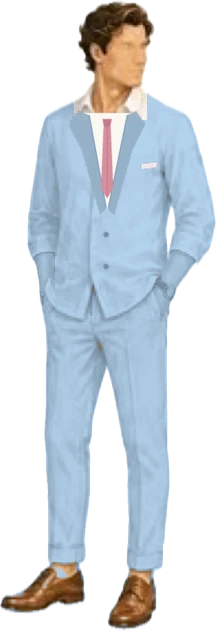
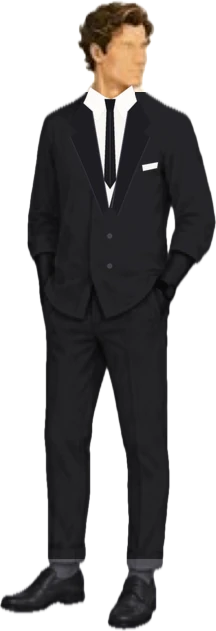
Vestimenta: invitado de negro, caballeros traje formal, damas con paleta completa al tocar

diff --git a/index.html b/index.html
@@ -2,7 +2,7 @@
 <html lang="es">
 <head>
 <meta charset="utf-8">
-<script>(function(){var V="1791526159";try{fetch("version.txt?t="+Date.now(),{cache:"no-store"}).then(function(r){return r.ok?r.text():""}).then(function(t){t=t.trim();if(/^\d+$/.test(t)&&t>V&&new URLSearchParams(location.search).get("v")!==t)location.replace(location.pathname+"?v="+t+location.hash)}).catch(function(){})}catch(e){}})();</script>
+<script>(function(){var V="1791526569";try{fetch("version.txt?t="+Date.now(),{cache:"no-store"}).then(function(r){return r.ok?r.text():""}).then(function(t){t=t.trim();if(/^\d+$/.test(t)&&t>V&&new URLSearchParams(location.search).get("v")!==t)location.replace(location.pathname+"?v="+t+location.hash)}).catch(function(){})}catch(e){}})();</script>
 <meta name="viewport" content="width=device-width,initial-scale=1,viewport-fit=cover">
 <meta name="robots" content="noindex,nofollow">
 <meta name="theme-color" content="#6c1d2d">
@@ -439,6 +439,18 @@ section[id]{scroll-margin-top:62px}
 .c-rama-tr{top:0;right:0;width:124px;transform:scaleX(-1);-webkit-mask-image:linear-gradient(transparent,#000 16px);mask-image:linear-gradient(transparent,#000 16px)}
 .countdown .c-rama-bl{bottom:-46px}
 .foot-leaf{position:absolute;right:0;bottom:23px;width:66px;height:auto;transform:scaleX(-1);opacity:.75;pointer-events:none}
+.dc-guide{margin-top:30px;width:100%;display:flex;flex-direction:column;align-items:center;gap:10px}
+.dc-g{display:flex;flex-direction:column;align-items:center;gap:6px}
+.dc-g-t{font:400 40px/1 "Allura",var(--script);color:var(--accent)}
+.dc-g-d{font:600 13px/1.3 var(--serif);letter-spacing:.26em;text-transform:uppercase;color:#4e1a26}
+.dc-guide .dc-orn{width:46%;margin:6px 0 2px}
+.dc-pal-btn{display:inline-flex;align-items:center;gap:8px;margin-top:4px;padding:11px 16px;border:1px solid var(--gold);border-radius:999px;background:#fbf7f1;color:var(--accent);font:600 12px/1.2 var(--serif);letter-spacing:.12em;text-transform:uppercase;cursor:pointer;box-shadow:0 8px 14px -10px rgba(60,20,30,.45)}
+.dc-pal-btn svg{width:18px;height:18px;flex:none}
+.dc-pal-btn .chev-i{width:15px;height:15px;transition:transform .3s}
+.dc-pal-btn[aria-expanded="true"] .chev-i{transform:rotate(180deg)}
+.dc-pal-btn:focus-visible{outline:2px solid var(--accent);outline-offset:3px}
+.dc-pal{width:100%}
+.dc-pal .dc-swatches{grid-template-columns:repeat(5,1fr);row-gap:14px}
 </style>
 
 <script>document.documentElement.classList.add("env-closed");if(matchMedia("(prefers-reduced-motion: no-preference)").matches)document.documentElement.classList.add("js-motion")</script>
@@ -651,7 +663,7 @@ section[id]{scroll-margin-top:62px}
       <div class="dc-col">
         <h3 class="dc-h">Hombres</h3>
         <span class="dc-orn" aria-hidden="true"><svg viewBox="0 0 24 24" fill="none" stroke="currentColor" stroke-width="1.5" aria-hidden="true"><path d="M12 19.5s-6.8-4.3-6.8-9.6a3.9 3.9 0 0 1 6.8-2.5 3.9 3.9 0 0 1 6.8 2.5c0 5.3-6.8 9.6-6.8 9.6z"/></svg></span>
-        <img class="dc-fig" src="invitado.webp?v=191f1cad" alt="Invitado con traje formal celeste pastel, camisa blanca y corbata rosa" width="216" height="631" loading="lazy" decoding="async">
+        <img class="dc-fig" src="invitado.webp?v=d18e5099" alt="Invitado con traje formal negro, camisa blanca y corbata negra" width="216" height="631" loading="lazy" decoding="async">
       </div>
       <span class="dc-vline" aria-hidden="true"><svg viewBox="0 0 24 24" fill="none" stroke="currentColor" stroke-width="1.5" aria-hidden="true"><path d="M12 19.5s-6.8-4.3-6.8-9.6a3.9 3.9 0 0 1 6.8-2.5 3.9 3.9 0 0 1 6.8 2.5c0 5.3-6.8 9.6-6.8 9.6z"/></svg></span>
       <div class="dc-col">
@@ -660,8 +672,17 @@ section[id]{scroll-margin-top:62px}
         <img class="dc-fig" src="invitada.webp?v=9271afb3" alt="Invitada con vestido largo formal rosa pastel" width="243" height="620" loading="lazy" decoding="async">
       </div>
     </div>
-    <p class="dc-sub reveal">Nos encantará verte en tonos pastel como:</p>
-    <ul class="dc-swatches reveal"><li><svg class="dc-blob" viewBox="0 0 48 48" aria-hidden="true"><g filter="url(#dc-wc)"><path d="M38.0 24.0C38.0 27.9 39.8 32.8 37.9 35.7C36.1 38.6 30.8 40.8 27.0 41.2C23.3 41.7 18.6 40.5 15.6 38.5C12.6 36.6 9.9 32.8 8.9 29.5C7.9 26.2 8.2 21.8 9.5 18.7C10.8 15.7 13.8 12.7 16.6 11.3C19.5 9.8 22.9 10.0 26.4 10.2C30.0 10.4 36.0 10.0 37.9 12.3C39.9 14.6 38.0 20.1 38.0 24.0Z" fill="#c8b4e3"/><path d="M38.0 24.0C38.0 27.9 39.8 32.8 37.9 35.7C36.1 38.6 30.8 40.8 27.0 41.2C23.3 41.7 18.6 40.5 15.6 38.5C12.6 36.6 9.9 32.8 8.9 29.5C7.9 26.2 8.2 21.8 9.5 18.7C10.8 15.7 13.8 12.7 16.6 11.3C19.5 9.8 22.9 10.0 26.4 10.2C30.0 10.4 36.0 10.0 37.9 12.3C39.9 14.6 38.0 20.1 38.0 24.0Z" fill="#fff" opacity=".18" transform="translate(5 4) scale(.62)"/></g></svg><span>Lavanda</span></li><li><svg class="dc-blob" viewBox="0 0 48 48" aria-hidden="true"><g filter="url(#dc-wc)"><path d="M38.0 24.0C38.0 27.9 39.8 32.8 37.9 35.7C36.1 38.6 30.8 40.8 27.0 41.2C23.3 41.7 18.6 40.5 15.6 38.5C12.6 36.6 9.9 32.8 8.9 29.5C7.9 26.2 8.2 21.8 9.5 18.7C10.8 15.7 13.8 12.7 16.6 11.3C19.5 9.8 22.9 10.0 26.4 10.2C30.0 10.4 36.0 10.0 37.9 12.3C39.9 14.6 38.0 20.1 38.0 24.0Z" fill="#f1c0c9"/><path d="M38.0 24.0C38.0 27.9 39.8 32.8 37.9 35.7C36.1 38.6 30.8 40.8 27.0 41.2C23.3 41.7 18.6 40.5 15.6 38.5C12.6 36.6 9.9 32.8 8.9 29.5C7.9 26.2 8.2 21.8 9.5 18.7C10.8 15.7 13.8 12.7 16.6 11.3C19.5 9.8 22.9 10.0 26.4 10.2C30.0 10.4 36.0 10.0 37.9 12.3C39.9 14.6 38.0 20.1 38.0 24.0Z" fill="#fff" opacity=".18" transform="translate(5 4) scale(.62)"/></g></svg><span>Rosa palo</span></li><li><svg class="dc-blob" viewBox="0 0 48 48" aria-hidden="true"><g filter="url(#dc-wc)"><path d="M38.0 24.0C38.0 27.9 39.8 32.8 37.9 35.7C36.1 38.6 30.8 40.8 27.0 41.2C23.3 41.7 18.6 40.5 15.6 38.5C12.6 36.6 9.9 32.8 8.9 29.5C7.9 26.2 8.2 21.8 9.5 18.7C10.8 15.7 13.8 12.7 16.6 11.3C19.5 9.8 22.9 10.0 26.4 10.2C30.0 10.4 36.0 10.0 37.9 12.3C39.9 14.6 38.0 20.1 38.0 24.0Z" fill="#b8d8ef"/><path d="M38.0 24.0C38.0 27.9 39.8 32.8 37.9 35.7C36.1 38.6 30.8 40.8 27.0 41.2C23.3 41.7 18.6 40.5 15.6 38.5C12.6 36.6 9.9 32.8 8.9 29.5C7.9 26.2 8.2 21.8 9.5 18.7C10.8 15.7 13.8 12.7 16.6 11.3C19.5 9.8 22.9 10.0 26.4 10.2C30.0 10.4 36.0 10.0 37.9 12.3C39.9 14.6 38.0 20.1 38.0 24.0Z" fill="#fff" opacity=".18" transform="translate(5 4) scale(.62)"/></g></svg><span>Celeste</span></li><li><svg class="dc-blob" viewBox="0 0 48 48" aria-hidden="true"><g filter="url(#dc-wc)"><path d="M38.0 24.0C38.0 27.9 39.8 32.8 37.9 35.7C36.1 38.6 30.8 40.8 27.0 41.2C23.3 41.7 18.6 40.5 15.6 38.5C12.6 36.6 9.9 32.8 8.9 29.5C7.9 26.2 8.2 21.8 9.5 18.7C10.8 15.7 13.8 12.7 16.6 11.3C19.5 9.8 22.9 10.0 26.4 10.2C30.0 10.4 36.0 10.0 37.9 12.3C39.9 14.6 38.0 20.1 38.0 24.0Z" fill="#bde3cd"/><path d="M38.0 24.0C38.0 27.9 39.8 32.8 37.9 35.7C36.1 38.6 30.8 40.8 27.0 41.2C23.3 41.7 18.6 40.5 15.6 38.5C12.6 36.6 9.9 32.8 8.9 29.5C7.9 26.2 8.2 21.8 9.5 18.7C10.8 15.7 13.8 12.7 16.6 11.3C19.5 9.8 22.9 10.0 26.4 10.2C30.0 10.4 36.0 10.0 37.9 12.3C39.9 14.6 38.0 20.1 38.0 24.0Z" fill="#fff" opacity=".18" transform="translate(5 4) scale(.62)"/></g></svg><span>Verde menta</span></li><li><svg class="dc-blob" viewBox="0 0 48 48" aria-hidden="true"><g filter="url(#dc-wc)"><path d="M38.0 24.0C38.0 27.9 39.8 32.8 37.9 35.7C36.1 38.6 30.8 40.8 27.0 41.2C23.3 41.7 18.6 40.5 15.6 38.5C12.6 36.6 9.9 32.8 8.9 29.5C7.9 26.2 8.2 21.8 9.5 18.7C10.8 15.7 13.8 12.7 16.6 11.3C19.5 9.8 22.9 10.0 26.4 10.2C30.0 10.4 36.0 10.0 37.9 12.3C39.9 14.6 38.0 20.1 38.0 24.0Z" fill="#f6c7a6"/><path d="M38.0 24.0C38.0 27.9 39.8 32.8 37.9 35.7C36.1 38.6 30.8 40.8 27.0 41.2C23.3 41.7 18.6 40.5 15.6 38.5C12.6 36.6 9.9 32.8 8.9 29.5C7.9 26.2 8.2 21.8 9.5 18.7C10.8 15.7 13.8 12.7 16.6 11.3C19.5 9.8 22.9 10.0 26.4 10.2C30.0 10.4 36.0 10.0 37.9 12.3C39.9 14.6 38.0 20.1 38.0 24.0Z" fill="#fff" opacity=".18" transform="translate(5 4) scale(.62)"/></g></svg><span>Durazno</span></li><li><svg class="dc-blob" viewBox="0 0 48 48" aria-hidden="true"><g filter="url(#dc-wc)"><path d="M38.0 24.0C38.0 27.9 39.8 32.8 37.9 35.7C36.1 38.6 30.8 40.8 27.0 41.2C23.3 41.7 18.6 40.5 15.6 38.5C12.6 36.6 9.9 32.8 8.9 29.5C7.9 26.2 8.2 21.8 9.5 18.7C10.8 15.7 13.8 12.7 16.6 11.3C19.5 9.8 22.9 10.0 26.4 10.2C30.0 10.4 36.0 10.0 37.9 12.3C39.9 14.6 38.0 20.1 38.0 24.0Z" fill="#f4e3a0"/><path d="M38.0 24.0C38.0 27.9 39.8 32.8 37.9 35.7C36.1 38.6 30.8 40.8 27.0 41.2C23.3 41.7 18.6 40.5 15.6 38.5C12.6 36.6 9.9 32.8 8.9 29.5C7.9 26.2 8.2 21.8 9.5 18.7C10.8 15.7 13.8 12.7 16.6 11.3C19.5 9.8 22.9 10.0 26.4 10.2C30.0 10.4 36.0 10.0 37.9 12.3C39.9 14.6 38.0 20.1 38.0 24.0Z" fill="#fff" opacity=".18" transform="translate(5 4) scale(.62)"/></g></svg><span>Amarillo pastel</span></li></ul>
+    <div class="dc-guide reveal">
+      <div class="dc-g"><span class="dc-g-t">Caballeros</span><span class="dc-g-d">Traje formal</span></div>
+      <span class="dc-orn" aria-hidden="true"><svg viewBox="0 0 24 24" fill="none" stroke="currentColor" stroke-width="1.5" aria-hidden="true"><path d="M12 19.5s-6.8-4.3-6.8-9.6a3.9 3.9 0 0 1 6.8-2.5 3.9 3.9 0 0 1 6.8 2.5c0 5.3-6.8 9.6-6.8 9.6z"/></svg></span>
+      <div class="dc-g"><span class="dc-g-t">Damas</span>
+        <button class="dc-pal-btn" id="pal-btn" type="button" aria-expanded="false" aria-controls="dc-pal"><svg viewBox="0 0 24 24" fill="none" stroke="currentColor" stroke-width="1.4" stroke-linecap="round" aria-hidden="true"><path d="M12 3.5a8.5 8.5 0 1 0 0 17c1.2 0 1.8-.8 1.8-1.7 0-.5-.2-.8-.4-1.1-.3-.3-.4-.6-.4-1 0-.9.7-1.6 1.6-1.6h1.9a4 4 0 0 0 4-4C20.5 6.9 16.7 3.5 12 3.5z"/><circle cx="7.6" cy="11" r="1.1"/><circle cx="10.5" cy="7.4" r="1.1"/><circle cx="15" cy="7.6" r="1.1"/></svg><span id="pal-lbl">Pulsa para ver la paleta de colores</span><svg class="chev-i" viewBox="0 0 24 24" fill="none" stroke="currentColor" stroke-width="1.6" aria-hidden="true"><path d="M6 9l6 6 6-6"/></svg></button>
+      </div>
+    </div>
+    <div class="dc-pal" id="dc-pal" hidden>
+      <p class="dc-sub">Paleta de colores (inspiración)</p>
+      <ul class="dc-swatches"><li><svg class="dc-blob" viewBox="0 0 48 48" aria-hidden="true"><g filter="url(#dc-wc)"><path d="M38.0 24.0C38.0 27.9 39.8 32.8 37.9 35.7C36.1 38.6 30.8 40.8 27.0 41.2C23.3 41.7 18.6 40.5 15.6 38.5C12.6 36.6 9.9 32.8 8.9 29.5C7.9 26.2 8.2 21.8 9.5 18.7C10.8 15.7 13.8 12.7 16.6 11.3C19.5 9.8 22.9 10.0 26.4 10.2C30.0 10.4 36.0 10.0 37.9 12.3C39.9 14.6 38.0 20.1 38.0 24.0Z" fill="#fdbfd4"/><path d="M38.0 24.0C38.0 27.9 39.8 32.8 37.9 35.7C36.1 38.6 30.8 40.8 27.0 41.2C23.3 41.7 18.6 40.5 15.6 38.5C12.6 36.6 9.9 32.8 8.9 29.5C7.9 26.2 8.2 21.8 9.5 18.7C10.8 15.7 13.8 12.7 16.6 11.3C19.5 9.8 22.9 10.0 26.4 10.2C30.0 10.4 36.0 10.0 37.9 12.3C39.9 14.6 38.0 20.1 38.0 24.0Z" fill="#fff" opacity=".18" transform="translate(5 4) scale(.62)"/></g></svg><span>Rosa suave</span></li><li><svg class="dc-blob" viewBox="0 0 48 48" aria-hidden="true"><g filter="url(#dc-wc)"><path d="M38.0 24.0C38.0 27.9 39.8 32.8 37.9 35.7C36.1 38.6 30.8 40.8 27.0 41.2C23.3 41.7 18.6 40.5 15.6 38.5C12.6 36.6 9.9 32.8 8.9 29.5C7.9 26.2 8.2 21.8 9.5 18.7C10.8 15.7 13.8 12.7 16.6 11.3C19.5 9.8 22.9 10.0 26.4 10.2C30.0 10.4 36.0 10.0 37.9 12.3C39.9 14.6 38.0 20.1 38.0 24.0Z" fill="#f8bbb9"/><path d="M38.0 24.0C38.0 27.9 39.8 32.8 37.9 35.7C36.1 38.6 30.8 40.8 27.0 41.2C23.3 41.7 18.6 40.5 15.6 38.5C12.6 36.6 9.9 32.8 8.9 29.5C7.9 26.2 8.2 21.8 9.5 18.7C10.8 15.7 13.8 12.7 16.6 11.3C19.5 9.8 22.9 10.0 26.4 10.2C30.0 10.4 36.0 10.0 37.9 12.3C39.9 14.6 38.0 20.1 38.0 24.0Z" fill="#fff" opacity=".18" transform="translate(5 4) scale(.62)"/></g></svg><span>Rosa palo</span></li><li><svg class="dc-blob" viewBox="0 0 48 48" aria-hidden="true"><g filter="url(#dc-wc)"><path d="M38.0 24.0C38.0 27.9 39.8 32.8 37.9 35.7C36.1 38.6 30.8 40.8 27.0 41.2C23.3 41.7 18.6 40.5 15.6 38.5C12.6 36.6 9.9 32.8 8.9 29.5C7.9 26.2 8.2 21.8 9.5 18.7C10.8 15.7 13.8 12.7 16.6 11.3C19.5 9.8 22.9 10.0 26.4 10.2C30.0 10.4 36.0 10.0 37.9 12.3C39.9 14.6 38.0 20.1 38.0 24.0Z" fill="#fec1a1"/><path d="M38.0 24.0C38.0 27.9 39.8 32.8 37.9 35.7C36.1 38.6 30.8 40.8 27.0 41.2C23.3 41.7 18.6 40.5 15.6 38.5C12.6 36.6 9.9 32.8 8.9 29.5C7.9 26.2 8.2 21.8 9.5 18.7C10.8 15.7 13.8 12.7 16.6 11.3C19.5 9.8 22.9 10.0 26.4 10.2C30.0 10.4 36.0 10.0 37.9 12.3C39.9 14.6 38.0 20.1 38.0 24.0Z" fill="#fff" opacity=".18" transform="translate(5 4) scale(.62)"/></g></svg><span>Durazno claro</span></li><li><svg class="dc-blob" viewBox="0 0 48 48" aria-hidden="true"><g filter="url(#dc-wc)"><path d="M38.0 24.0C38.0 27.9 39.8 32.8 37.9 35.7C36.1 38.6 30.8 40.8 27.0 41.2C23.3 41.7 18.6 40.5 15.6 38.5C12.6 36.6 9.9 32.8 8.9 29.5C7.9 26.2 8.2 21.8 9.5 18.7C10.8 15.7 13.8 12.7 16.6 11.3C19.5 9.8 22.9 10.0 26.4 10.2C30.0 10.4 36.0 10.0 37.9 12.3C39.9 14.6 38.0 20.1 38.0 24.0Z" fill="#f3e0ad"/><path d="M38.0 24.0C38.0 27.9 39.8 32.8 37.9 35.7C36.1 38.6 30.8 40.8 27.0 41.2C23.3 41.7 18.6 40.5 15.6 38.5C12.6 36.6 9.9 32.8 8.9 29.5C7.9 26.2 8.2 21.8 9.5 18.7C10.8 15.7 13.8 12.7 16.6 11.3C19.5 9.8 22.9 10.0 26.4 10.2C30.0 10.4 36.0 10.0 37.9 12.3C39.9 14.6 38.0 20.1 38.0 24.0Z" fill="#fff" opacity=".18" transform="translate(5 4) scale(.62)"/></g></svg><span>Crema suave</span></li><li><svg class="dc-blob" viewBox="0 0 48 48" aria-hidden="true"><g filter="url(#dc-wc)"><path d="M38.0 24.0C38.0 27.9 39.8 32.8 37.9 35.7C36.1 38.6 30.8 40.8 27.0 41.2C23.3 41.7 18.6 40.5 15.6 38.5C12.6 36.6 9.9 32.8 8.9 29.5C7.9 26.2 8.2 21.8 9.5 18.7C10.8 15.7 13.8 12.7 16.6 11.3C19.5 9.8 22.9 10.0 26.4 10.2C30.0 10.4 36.0 10.0 37.9 12.3C39.9 14.6 38.0 20.1 38.0 24.0Z" fill="#fbf6b5"/><path d="M38.0 24.0C38.0 27.9 39.8 32.8 37.9 35.7C36.1 38.6 30.8 40.8 27.0 41.2C23.3 41.7 18.6 40.5 15.6 38.5C12.6 36.6 9.9 32.8 8.9 29.5C7.9 26.2 8.2 21.8 9.5 18.7C10.8 15.7 13.8 12.7 16.6 11.3C19.5 9.8 22.9 10.0 26.4 10.2C30.0 10.4 36.0 10.0 37.9 12.3C39.9 14.6 38.0 20.1 38.0 24.0Z" fill="#fff" opacity=".18" transform="translate(5 4) scale(.62)"/></g></svg><span>Amarillo crema</span></li><li><svg class="dc-blob" viewBox="0 0 48 48" aria-hidden="true"><g filter="url(#dc-wc)"><path d="M38.0 24.0C38.0 27.9 39.8 32.8 37.9 35.7C36.1 38.6 30.8 40.8 27.0 41.2C23.3 41.7 18.6 40.5 15.6 38.5C12.6 36.6 9.9 32.8 8.9 29.5C7.9 26.2 8.2 21.8 9.5 18.7C10.8 15.7 13.8 12.7 16.6 11.3C19.5 9.8 22.9 10.0 26.4 10.2C30.0 10.4 36.0 10.0 37.9 12.3C39.9 14.6 38.0 20.1 38.0 24.0Z" fill="#b7cea2"/><path d="M38.0 24.0C38.0 27.9 39.8 32.8 37.9 35.7C36.1 38.6 30.8 40.8 27.0 41.2C23.3 41.7 18.6 40.5 15.6 38.5C12.6 36.6 9.9 32.8 8.9 29.5C7.9 26.2 8.2 21.8 9.5 18.7C10.8 15.7 13.8 12.7 16.6 11.3C19.5 9.8 22.9 10.0 26.4 10.2C30.0 10.4 36.0 10.0 37.9 12.3C39.9 14.6 38.0 20.1 38.0 24.0Z" fill="#fff" opacity=".18" transform="translate(5 4) scale(.62)"/></g></svg><span>Verde pastel</span></li><li><svg class="dc-blob" viewBox="0 0 48 48" aria-hidden="true"><g filter="url(#dc-wc)"><path d="M38.0 24.0C38.0 27.9 39.8 32.8 37.9 35.7C36.1 38.6 30.8 40.8 27.0 41.2C23.3 41.7 18.6 40.5 15.6 38.5C12.6 36.6 9.9 32.8 8.9 29.5C7.9 26.2 8.2 21.8 9.5 18.7C10.8 15.7 13.8 12.7 16.6 11.3C19.5 9.8 22.9 10.0 26.4 10.2C30.0 10.4 36.0 10.0 37.9 12.3C39.9 14.6 38.0 20.1 38.0 24.0Z" fill="#c5dbc1"/><path d="M38.0 24.0C38.0 27.9 39.8 32.8 37.9 35.7C36.1 38.6 30.8 40.8 27.0 41.2C23.3 41.7 18.6 40.5 15.6 38.5C12.6 36.6 9.9 32.8 8.9 29.5C7.9 26.2 8.2 21.8 9.5 18.7C10.8 15.7 13.8 12.7 16.6 11.3C19.5 9.8 22.9 10.0 26.4 10.2C30.0 10.4 36.0 10.0 37.9 12.3C39.9 14.6 38.0 20.1 38.0 24.0Z" fill="#fff" opacity=".18" transform="translate(5 4) scale(.62)"/></g></svg><span>Menta pastel</span></li><li><svg class="dc-blob" viewBox="0 0 48 48" aria-hidden="true"><g filter="url(#dc-wc)"><path d="M38.0 24.0C38.0 27.9 39.8 32.8 37.9 35.7C36.1 38.6 30.8 40.8 27.0 41.2C23.3 41.7 18.6 40.5 15.6 38.5C12.6 36.6 9.9 32.8 8.9 29.5C7.9 26.2 8.2 21.8 9.5 18.7C10.8 15.7 13.8 12.7 16.6 11.3C19.5 9.8 22.9 10.0 26.4 10.2C30.0 10.4 36.0 10.0 37.9 12.3C39.9 14.6 38.0 20.1 38.0 24.0Z" fill="#f9a287"/><path d="M38.0 24.0C38.0 27.9 39.8 32.8 37.9 35.7C36.1 38.6 30.8 40.8 27.0 41.2C23.3 41.7 18.6 40.5 15.6 38.5C12.6 36.6 9.9 32.8 8.9 29.5C7.9 26.2 8.2 21.8 9.5 18.7C10.8 15.7 13.8 12.7 16.6 11.3C19.5 9.8 22.9 10.0 26.4 10.2C30.0 10.4 36.0 10.0 37.9 12.3C39.9 14.6 38.0 20.1 38.0 24.0Z" fill="#fff" opacity=".18" transform="translate(5 4) scale(.62)"/></g></svg><span>Naranja claro</span></li><li><svg class="dc-blob" viewBox="0 0 48 48" aria-hidden="true"><g filter="url(#dc-wc)"><path d="M38.0 24.0C38.0 27.9 39.8 32.8 37.9 35.7C36.1 38.6 30.8 40.8 27.0 41.2C23.3 41.7 18.6 40.5 15.6 38.5C12.6 36.6 9.9 32.8 8.9 29.5C7.9 26.2 8.2 21.8 9.5 18.7C10.8 15.7 13.8 12.7 16.6 11.3C19.5 9.8 22.9 10.0 26.4 10.2C30.0 10.4 36.0 10.0 37.9 12.3C39.9 14.6 38.0 20.1 38.0 24.0Z" fill="#feb079"/><path d="M38.0 24.0C38.0 27.9 39.8 32.8 37.9 35.7C36.1 38.6 30.8 40.8 27.0 41.2C23.3 41.7 18.6 40.5 15.6 38.5C12.6 36.6 9.9 32.8 8.9 29.5C7.9 26.2 8.2 21.8 9.5 18.7C10.8 15.7 13.8 12.7 16.6 11.3C19.5 9.8 22.9 10.0 26.4 10.2C30.0 10.4 36.0 10.0 37.9 12.3C39.9 14.6 38.0 20.1 38.0 24.0Z" fill="#fff" opacity=".18" transform="translate(5 4) scale(.62)"/></g></svg><span>Coral suave</span></li><li><svg class="dc-blob" viewBox="0 0 48 48" aria-hidden="true"><g filter="url(#dc-wc)"><path d="M38.0 24.0C38.0 27.9 39.8 32.8 37.9 35.7C36.1 38.6 30.8 40.8 27.0 41.2C23.3 41.7 18.6 40.5 15.6 38.5C12.6 36.6 9.9 32.8 8.9 29.5C7.9 26.2 8.2 21.8 9.5 18.7C10.8 15.7 13.8 12.7 16.6 11.3C19.5 9.8 22.9 10.0 26.4 10.2C30.0 10.4 36.0 10.0 37.9 12.3C39.9 14.6 38.0 20.1 38.0 24.0Z" fill="#f4ccaa"/><path d="M38.0 24.0C38.0 27.9 39.8 32.8 37.9 35.7C36.1 38.6 30.8 40.8 27.0 41.2C23.3 41.7 18.6 40.5 15.6 38.5C12.6 36.6 9.9 32.8 8.9 29.5C7.9 26.2 8.2 21.8 9.5 18.7C10.8 15.7 13.8 12.7 16.6 11.3C19.5 9.8 22.9 10.0 26.4 10.2C30.0 10.4 36.0 10.0 37.9 12.3C39.9 14.6 38.0 20.1 38.0 24.0Z" fill="#fff" opacity=".18" transform="translate(5 4) scale(.62)"/></g></svg><span>Melocotón claro</span></li><li><svg class="dc-blob" viewBox="0 0 48 48" aria-hidden="true"><g filter="url(#dc-wc)"><path d="M38.0 24.0C38.0 27.9 39.8 32.8 37.9 35.7C36.1 38.6 30.8 40.8 27.0 41.2C23.3 41.7 18.6 40.5 15.6 38.5C12.6 36.6 9.9 32.8 8.9 29.5C7.9 26.2 8.2 21.8 9.5 18.7C10.8 15.7 13.8 12.7 16.6 11.3C19.5 9.8 22.9 10.0 26.4 10.2C30.0 10.4 36.0 10.0 37.9 12.3C39.9 14.6 38.0 20.1 38.0 24.0Z" fill="#f0de87"/><path d="M38.0 24.0C38.0 27.9 39.8 32.8 37.9 35.7C36.1 38.6 30.8 40.8 27.0 41.2C23.3 41.7 18.6 40.5 15.6 38.5C12.6 36.6 9.9 32.8 8.9 29.5C7.9 26.2 8.2 21.8 9.5 18.7C10.8 15.7 13.8 12.7 16.6 11.3C19.5 9.8 22.9 10.0 26.4 10.2C30.0 10.4 36.0 10.0 37.9 12.3C39.9 14.6 38.0 20.1 38.0 24.0Z" fill="#fff" opacity=".18" transform="translate(5 4) scale(.62)"/></g></svg><span>Amarillo suave</span></li><li><svg class="dc-blob" viewBox="0 0 48 48" aria-hidden="true"><g filter="url(#dc-wc)"><path d="M38.0 24.0C38.0 27.9 39.8 32.8 37.9 35.7C36.1 38.6 30.8 40.8 27.0 41.2C23.3 41.7 18.6 40.5 15.6 38.5C12.6 36.6 9.9 32.8 8.9 29.5C7.9 26.2 8.2 21.8 9.5 18.7C10.8 15.7 13.8 12.7 16.6 11.3C19.5 9.8 22.9 10.0 26.4 10.2C30.0 10.4 36.0 10.0 37.9 12.3C39.9 14.6 38.0 20.1 38.0 24.0Z" fill="#c3d3a7"/><path d="M38.0 24.0C38.0 27.9 39.8 32.8 37.9 35.7C36.1 38.6 30.8 40.8 27.0 41.2C23.3 41.7 18.6 40.5 15.6 38.5C12.6 36.6 9.9 32.8 8.9 29.5C7.9 26.2 8.2 21.8 9.5 18.7C10.8 15.7 13.8 12.7 16.6 11.3C19.5 9.8 22.9 10.0 26.4 10.2C30.0 10.4 36.0 10.0 37.9 12.3C39.9 14.6 38.0 20.1 38.0 24.0Z" fill="#fff" opacity=".18" transform="translate(5 4) scale(.62)"/></g></svg><span>Verde té</span></li><li><svg class="dc-blob" viewBox="0 0 48 48" aria-hidden="true"><g filter="url(#dc-wc)"><path d="M38.0 24.0C38.0 27.9 39.8 32.8 37.9 35.7C36.1 38.6 30.8 40.8 27.0 41.2C23.3 41.7 18.6 40.5 15.6 38.5C12.6 36.6 9.9 32.8 8.9 29.5C7.9 26.2 8.2 21.8 9.5 18.7C10.8 15.7 13.8 12.7 16.6 11.3C19.5 9.8 22.9 10.0 26.4 10.2C30.0 10.4 36.0 10.0 37.9 12.3C39.9 14.6 38.0 20.1 38.0 24.0Z" fill="#bcc993"/><path d="M38.0 24.0C38.0 27.9 39.8 32.8 37.9 35.7C36.1 38.6 30.8 40.8 27.0 41.2C23.3 41.7 18.6 40.5 15.6 38.5C12.6 36.6 9.9 32.8 8.9 29.5C7.9 26.2 8.2 21.8 9.5 18.7C10.8 15.7 13.8 12.7 16.6 11.3C19.5 9.8 22.9 10.0 26.4 10.2C30.0 10.4 36.0 10.0 37.9 12.3C39.9 14.6 38.0 20.1 38.0 24.0Z" fill="#fff" opacity=".18" transform="translate(5 4) scale(.62)"/></g></svg><span>Verde pistacho</span></li><li><svg class="dc-blob" viewBox="0 0 48 48" aria-hidden="true"><g filter="url(#dc-wc)"><path d="M38.0 24.0C38.0 27.9 39.8 32.8 37.9 35.7C36.1 38.6 30.8 40.8 27.0 41.2C23.3 41.7 18.6 40.5 15.6 38.5C12.6 36.6 9.9 32.8 8.9 29.5C7.9 26.2 8.2 21.8 9.5 18.7C10.8 15.7 13.8 12.7 16.6 11.3C19.5 9.8 22.9 10.0 26.4 10.2C30.0 10.4 36.0 10.0 37.9 12.3C39.9 14.6 38.0 20.1 38.0 24.0Z" fill="#c8c88f"/><path d="M38.0 24.0C38.0 27.9 39.8 32.8 37.9 35.7C36.1 38.6 30.8 40.8 27.0 41.2C23.3 41.7 18.6 40.5 15.6 38.5C12.6 36.6 9.9 32.8 8.9 29.5C7.9 26.2 8.2 21.8 9.5 18.7C10.8 15.7 13.8 12.7 16.6 11.3C19.5 9.8 22.9 10.0 26.4 10.2C30.0 10.4 36.0 10.0 37.9 12.3C39.9 14.6 38.0 20.1 38.0 24.0Z" fill="#fff" opacity=".18" transform="translate(5 4) scale(.62)"/></g></svg><span>Oliva suave</span></li><li><svg class="dc-blob" viewBox="0 0 48 48" aria-hidden="true"><g filter="url(#dc-wc)"><path d="M38.0 24.0C38.0 27.9 39.8 32.8 37.9 35.7C36.1 38.6 30.8 40.8 27.0 41.2C23.3 41.7 18.6 40.5 15.6 38.5C12.6 36.6 9.9 32.8 8.9 29.5C7.9 26.2 8.2 21.8 9.5 18.7C10.8 15.7 13.8 12.7 16.6 11.3C19.5 9.8 22.9 10.0 26.4 10.2C30.0 10.4 36.0 10.0 37.9 12.3C39.9 14.6 38.0 20.1 38.0 24.0Z" fill="#d6dab0"/><path d="M38.0 24.0C38.0 27.9 39.8 32.8 37.9 35.7C36.1 38.6 30.8 40.8 27.0 41.2C23.3 41.7 18.6 40.5 15.6 38.5C12.6 36.6 9.9 32.8 8.9 29.5C7.9 26.2 8.2 21.8 9.5 18.7C10.8 15.7 13.8 12.7 16.6 11.3C19.5 9.8 22.9 10.0 26.4 10.2C30.0 10.4 36.0 10.0 37.9 12.3C39.9 14.6 38.0 20.1 38.0 24.0Z" fill="#fff" opacity=".18" transform="translate(5 4) scale(.62)"/></g></svg><span>Lima pastel</span></li><li><svg class="dc-blob" viewBox="0 0 48 48" aria-hidden="true"><g filter="url(#dc-wc)"><path d="M38.0 24.0C38.0 27.9 39.8 32.8 37.9 35.7C36.1 38.6 30.8 40.8 27.0 41.2C23.3 41.7 18.6 40.5 15.6 38.5C12.6 36.6 9.9 32.8 8.9 29.5C7.9 26.2 8.2 21.8 9.5 18.7C10.8 15.7 13.8 12.7 16.6 11.3C19.5 9.8 22.9 10.0 26.4 10.2C30.0 10.4 36.0 10.0 37.9 12.3C39.9 14.6 38.0 20.1 38.0 24.0Z" fill="#dce9d0"/><path d="M38.0 24.0C38.0 27.9 39.8 32.8 37.9 35.7C36.1 38.6 30.8 40.8 27.0 41.2C23.3 41.7 18.6 40.5 15.6 38.5C12.6 36.6 9.9 32.8 8.9 29.5C7.9 26.2 8.2 21.8 9.5 18.7C10.8 15.7 13.8 12.7 16.6 11.3C19.5 9.8 22.9 10.0 26.4 10.2C30.0 10.4 36.0 10.0 37.9 12.3C39.9 14.6 38.0 20.1 38.0 24.0Z" fill="#fff" opacity=".18" transform="translate(5 4) scale(.62)"/></g></svg><span>Menta suave</span></li><li><svg class="dc-blob" viewBox="0 0 48 48" aria-hidden="true"><g filter="url(#dc-wc)"><path d="M38.0 24.0C38.0 27.9 39.8 32.8 37.9 35.7C36.1 38.6 30.8 40.8 27.0 41.2C23.3 41.7 18.6 40.5 15.6 38.5C12.6 36.6 9.9 32.8 8.9 29.5C7.9 26.2 8.2 21.8 9.5 18.7C10.8 15.7 13.8 12.7 16.6 11.3C19.5 9.8 22.9 10.0 26.4 10.2C30.0 10.4 36.0 10.0 37.9 12.3C39.9 14.6 38.0 20.1 38.0 24.0Z" fill="#d8e2da"/><path d="M38.0 24.0C38.0 27.9 39.8 32.8 37.9 35.7C36.1 38.6 30.8 40.8 27.0 41.2C23.3 41.7 18.6 40.5 15.6 38.5C12.6 36.6 9.9 32.8 8.9 29.5C7.9 26.2 8.2 21.8 9.5 18.7C10.8 15.7 13.8 12.7 16.6 11.3C19.5 9.8 22.9 10.0 26.4 10.2C30.0 10.4 36.0 10.0 37.9 12.3C39.9 14.6 38.0 20.1 38.0 24.0Z" fill="#fff" opacity=".18" transform="translate(5 4) scale(.62)"/></g></svg><span>Agua claro</span></li><li><svg class="dc-blob" viewBox="0 0 48 48" aria-hidden="true"><g filter="url(#dc-wc)"><path d="M38.0 24.0C38.0 27.9 39.8 32.8 37.9 35.7C36.1 38.6 30.8 40.8 27.0 41.2C23.3 41.7 18.6 40.5 15.6 38.5C12.6 36.6 9.9 32.8 8.9 29.5C7.9 26.2 8.2 21.8 9.5 18.7C10.8 15.7 13.8 12.7 16.6 11.3C19.5 9.8 22.9 10.0 26.4 10.2C30.0 10.4 36.0 10.0 37.9 12.3C39.9 14.6 38.0 20.1 38.0 24.0Z" fill="#85a99f"/><path d="M38.0 24.0C38.0 27.9 39.8 32.8 37.9 35.7C36.1 38.6 30.8 40.8 27.0 41.2C23.3 41.7 18.6 40.5 15.6 38.5C12.6 36.6 9.9 32.8 8.9 29.5C7.9 26.2 8.2 21.8 9.5 18.7C10.8 15.7 13.8 12.7 16.6 11.3C19.5 9.8 22.9 10.0 26.4 10.2C30.0 10.4 36.0 10.0 37.9 12.3C39.9 14.6 38.0 20.1 38.0 24.0Z" fill="#fff" opacity=".18" transform="translate(5 4) scale(.62)"/></g></svg><span>Verde jade</span></li><li><svg class="dc-blob" viewBox="0 0 48 48" aria-hidden="true"><g filter="url(#dc-wc)"><path d="M38.0 24.0C38.0 27.9 39.8 32.8 37.9 35.7C36.1 38.6 30.8 40.8 27.0 41.2C23.3 41.7 18.6 40.5 15.6 38.5C12.6 36.6 9.9 32.8 8.9 29.5C7.9 26.2 8.2 21.8 9.5 18.7C10.8 15.7 13.8 12.7 16.6 11.3C19.5 9.8 22.9 10.0 26.4 10.2C30.0 10.4 36.0 10.0 37.9 12.3C39.9 14.6 38.0 20.1 38.0 24.0Z" fill="#95b2a4"/><path d="M38.0 24.0C38.0 27.9 39.8 32.8 37.9 35.7C36.1 38.6 30.8 40.8 27.0 41.2C23.3 41.7 18.6 40.5 15.6 38.5C12.6 36.6 9.9 32.8 8.9 29.5C7.9 26.2 8.2 21.8 9.5 18.7C10.8 15.7 13.8 12.7 16.6 11.3C19.5 9.8 22.9 10.0 26.4 10.2C30.0 10.4 36.0 10.0 37.9 12.3C39.9 14.6 38.0 20.1 38.0 24.0Z" fill="#fff" opacity=".18" transform="translate(5 4) scale(.62)"/></g></svg><span>Salvia</span></li><li><svg class="dc-blob" viewBox="0 0 48 48" aria-hidden="true"><g filter="url(#dc-wc)"><path d="M38.0 24.0C38.0 27.9 39.8 32.8 37.9 35.7C36.1 38.6 30.8 40.8 27.0 41.2C23.3 41.7 18.6 40.5 15.6 38.5C12.6 36.6 9.9 32.8 8.9 29.5C7.9 26.2 8.2 21.8 9.5 18.7C10.8 15.7 13.8 12.7 16.6 11.3C19.5 9.8 22.9 10.0 26.4 10.2C30.0 10.4 36.0 10.0 37.9 12.3C39.9 14.6 38.0 20.1 38.0 24.0Z" fill="#aac5b9"/><path d="M38.0 24.0C38.0 27.9 39.8 32.8 37.9 35.7C36.1 38.6 30.8 40.8 27.0 41.2C23.3 41.7 18.6 40.5 15.6 38.5C12.6 36.6 9.9 32.8 8.9 29.5C7.9 26.2 8.2 21.8 9.5 18.7C10.8 15.7 13.8 12.7 16.6 11.3C19.5 9.8 22.9 10.0 26.4 10.2C30.0 10.4 36.0 10.0 37.9 12.3C39.9 14.6 38.0 20.1 38.0 24.0Z" fill="#fff" opacity=".18" transform="translate(5 4) scale(.62)"/></g></svg><span>Verde agua</span></li><li><svg class="dc-blob" viewBox="0 0 48 48" aria-hidden="true"><g filter="url(#dc-wc)"><path d="M38.0 24.0C38.0 27.9 39.8 32.8 37.9 35.7C36.1 38.6 30.8 40.8 27.0 41.2C23.3 41.7 18.6 40.5 15.6 38.5C12.6 36.6 9.9 32.8 8.9 29.5C7.9 26.2 8.2 21.8 9.5 18.7C10.8 15.7 13.8 12.7 16.6 11.3C19.5 9.8 22.9 10.0 26.4 10.2C30.0 10.4 36.0 10.0 37.9 12.3C39.9 14.6 38.0 20.1 38.0 24.0Z" fill="#bcd3c7"/><path d="M38.0 24.0C38.0 27.9 39.8 32.8 37.9 35.7C36.1 38.6 30.8 40.8 27.0 41.2C23.3 41.7 18.6 40.5 15.6 38.5C12.6 36.6 9.9 32.8 8.9 29.5C7.9 26.2 8.2 21.8 9.5 18.7C10.8 15.7 13.8 12.7 16.6 11.3C19.5 9.8 22.9 10.0 26.4 10.2C30.0 10.4 36.0 10.0 37.9 12.3C39.9 14.6 38.0 20.1 38.0 24.0Z" fill="#fff" opacity=".18" transform="translate(5 4) scale(.62)"/></g></svg><span>Eucalipto</span></li><li><svg class="dc-blob" viewBox="0 0 48 48" aria-hidden="true"><g filter="url(#dc-wc)"><path d="M38.0 24.0C38.0 27.9 39.8 32.8 37.9 35.7C36.1 38.6 30.8 40.8 27.0 41.2C23.3 41.7 18.6 40.5 15.6 38.5C12.6 36.6 9.9 32.8 8.9 29.5C7.9 26.2 8.2 21.8 9.5 18.7C10.8 15.7 13.8 12.7 16.6 11.3C19.5 9.8 22.9 10.0 26.4 10.2C30.0 10.4 36.0 10.0 37.9 12.3C39.9 14.6 38.0 20.1 38.0 24.0Z" fill="#9bb7cb"/><path d="M38.0 24.0C38.0 27.9 39.8 32.8 37.9 35.7C36.1 38.6 30.8 40.8 27.0 41.2C23.3 41.7 18.6 40.5 15.6 38.5C12.6 36.6 9.9 32.8 8.9 29.5C7.9 26.2 8.2 21.8 9.5 18.7C10.8 15.7 13.8 12.7 16.6 11.3C19.5 9.8 22.9 10.0 26.4 10.2C30.0 10.4 36.0 10.0 37.9 12.3C39.9 14.6 38.0 20.1 38.0 24.0Z" fill="#fff" opacity=".18" transform="translate(5 4) scale(.62)"/></g></svg><span>Azul cielo claro</span></li><li><svg class="dc-blob" viewBox="0 0 48 48" aria-hidden="true"><g filter="url(#dc-wc)"><path d="M38.0 24.0C38.0 27.9 39.8 32.8 37.9 35.7C36.1 38.6 30.8 40.8 27.0 41.2C23.3 41.7 18.6 40.5 15.6 38.5C12.6 36.6 9.9 32.8 8.9 29.5C7.9 26.2 8.2 21.8 9.5 18.7C10.8 15.7 13.8 12.7 16.6 11.3C19.5 9.8 22.9 10.0 26.4 10.2C30.0 10.4 36.0 10.0 37.9 12.3C39.9 14.6 38.0 20.1 38.0 24.0Z" fill="#c3c7f3"/><path d="M38.0 24.0C38.0 27.9 39.8 32.8 37.9 35.7C36.1 38.6 30.8 40.8 27.0 41.2C23.3 41.7 18.6 40.5 15.6 38.5C12.6 36.6 9.9 32.8 8.9 29.5C7.9 26.2 8.2 21.8 9.5 18.7C10.8 15.7 13.8 12.7 16.6 11.3C19.5 9.8 22.9 10.0 26.4 10.2C30.0 10.4 36.0 10.0 37.9 12.3C39.9 14.6 38.0 20.1 38.0 24.0Z" fill="#fff" opacity=".18" transform="translate(5 4) scale(.62)"/></g></svg><span>Lavanda pastel</span></li><li><svg class="dc-blob" viewBox="0 0 48 48" aria-hidden="true"><g filter="url(#dc-wc)"><path d="M38.0 24.0C38.0 27.9 39.8 32.8 37.9 35.7C36.1 38.6 30.8 40.8 27.0 41.2C23.3 41.7 18.6 40.5 15.6 38.5C12.6 36.6 9.9 32.8 8.9 29.5C7.9 26.2 8.2 21.8 9.5 18.7C10.8 15.7 13.8 12.7 16.6 11.3C19.5 9.8 22.9 10.0 26.4 10.2C30.0 10.4 36.0 10.0 37.9 12.3C39.9 14.6 38.0 20.1 38.0 24.0Z" fill="#b7d1e6"/><path d="M38.0 24.0C38.0 27.9 39.8 32.8 37.9 35.7C36.1 38.6 30.8 40.8 27.0 41.2C23.3 41.7 18.6 40.5 15.6 38.5C12.6 36.6 9.9 32.8 8.9 29.5C7.9 26.2 8.2 21.8 9.5 18.7C10.8 15.7 13.8 12.7 16.6 11.3C19.5 9.8 22.9 10.0 26.4 10.2C30.0 10.4 36.0 10.0 37.9 12.3C39.9 14.6 38.0 20.1 38.0 24.0Z" fill="#fff" opacity=".18" transform="translate(5 4) scale(.62)"/></g></svg><span>Azul cielo pastel</span></li><li><svg class="dc-blob" viewBox="0 0 48 48" aria-hidden="true"><g filter="url(#dc-wc)"><path d="M38.0 24.0C38.0 27.9 39.8 32.8 37.9 35.7C36.1 38.6 30.8 40.8 27.0 41.2C23.3 41.7 18.6 40.5 15.6 38.5C12.6 36.6 9.9 32.8 8.9 29.5C7.9 26.2 8.2 21.8 9.5 18.7C10.8 15.7 13.8 12.7 16.6 11.3C19.5 9.8 22.9 10.0 26.4 10.2C30.0 10.4 36.0 10.0 37.9 12.3C39.9 14.6 38.0 20.1 38.0 24.0Z" fill="#c79fb8"/><path d="M38.0 24.0C38.0 27.9 39.8 32.8 37.9 35.7C36.1 38.6 30.8 40.8 27.0 41.2C23.3 41.7 18.6 40.5 15.6 38.5C12.6 36.6 9.9 32.8 8.9 29.5C7.9 26.2 8.2 21.8 9.5 18.7C10.8 15.7 13.8 12.7 16.6 11.3C19.5 9.8 22.9 10.0 26.4 10.2C30.0 10.4 36.0 10.0 37.9 12.3C39.9 14.6 38.0 20.1 38.0 24.0Z" fill="#fff" opacity=".18" transform="translate(5 4) scale(.62)"/></g></svg><span>Malva pastel</span></li></ul>
+    </div>
     <p class="dc-sub reveal">Evitar:</p>
     <ul class="dc-avoids reveal"><li><svg class="dc-avoid" viewBox="0 0 48 48" aria-hidden="true"><circle cx="24" cy="24" r="19" fill="#fffdf9" stroke="#cdbfae" stroke-width="1.2"/><path d="M37 11 11 37" stroke="#4b2a31" stroke-width="2" stroke-linecap="round"/></svg><span>Blanco</span></li><li><svg class="dc-avoid" viewBox="0 0 48 48" aria-hidden="true"><circle cx="24" cy="24" r="19" fill="#c22a35" stroke="#cdbfae" stroke-width="1.2"/><path d="M37 11 11 37" stroke="#4b2a31" stroke-width="2" stroke-linecap="round"/></svg><span>Rojo</span></li><li><svg class="dc-avoid" viewBox="0 0 48 48" aria-hidden="true"><circle cx="24" cy="24" r="19" fill="url(#dc-print)" stroke="#cdbfae" stroke-width="1.2"/><path d="M37 11 11 37" stroke="#4b2a31" stroke-width="2" stroke-linecap="round"/></svg><span>Estampados</span></li></ul>
     <p class="dc-note reveal">El blanco es solo para los novios.</p>
@@ -952,6 +973,17 @@ tbToggle.addEventListener("click", () => {
   tbToggle.setAttribute("aria-label", open ? "Cerrar el menú" : "Abrir el menú");
 });
 tbMenu.addEventListener("click", e => { if (e.target.closest("a")) closeMenu(); });
+
+// Vestimenta: la paleta de colores de las damas aparece al tocar el botón
+const palBtn = document.getElementById("pal-btn");
+const pal = document.getElementById("dc-pal");
+palBtn.addEventListener("click", () => {
+  const open = pal.hidden;
+  pal.hidden = !open;
+  palBtn.setAttribute("aria-expanded", String(open));
+  document.getElementById("pal-lbl").textContent = open ? "Ocultar la paleta de colores" : "Pulsa para ver la paleta de colores";
+  if (open && motion) pal.animate([{ opacity: 0, transform: "translateY(-10px)" }, { opacity: 1, transform: "none" }], { duration: 450, easing: "ease-out" });
+});
 </script>
 
 </body>
